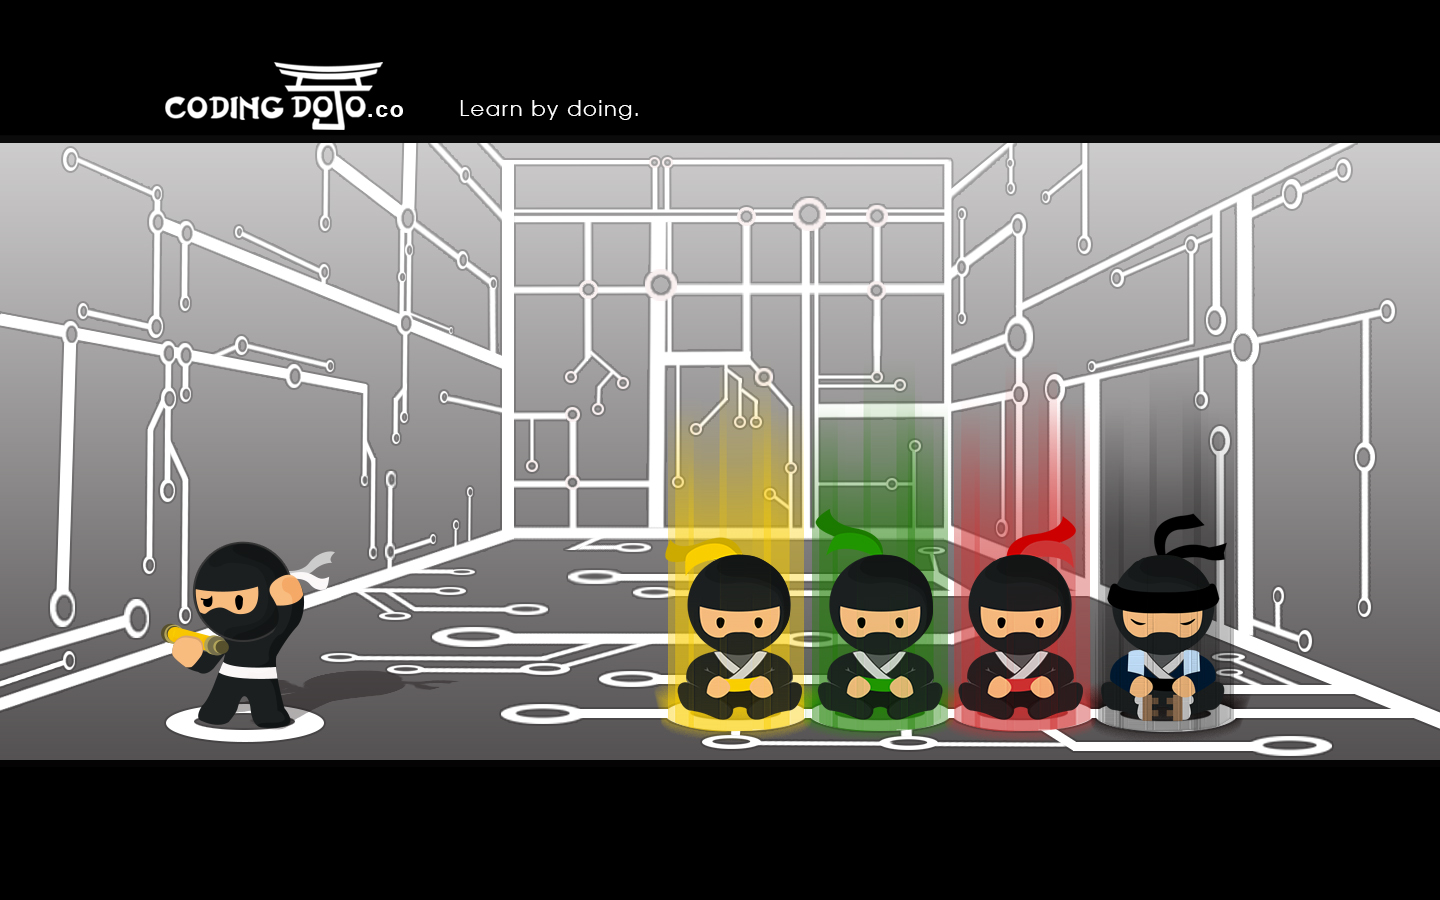
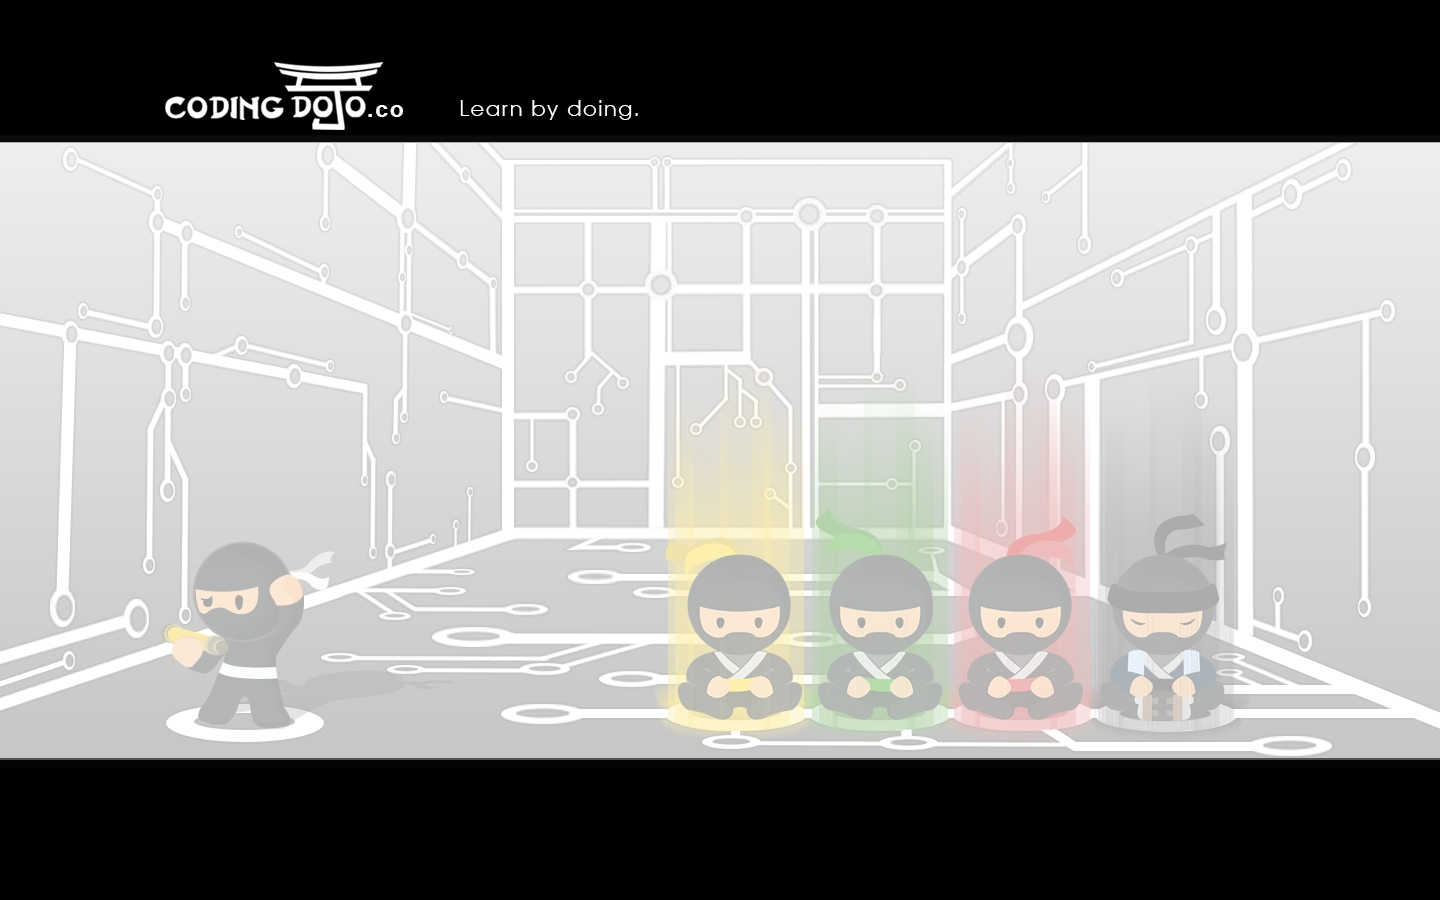
Lightened background image.

diff --git a/db/schema.rb b/db/schema.rb
@@ -1,3 +1,4 @@
+# encoding: UTF-8
 # This file is auto-generated from the current state of the database. Instead
 # of editing this file, please use the migrations feature of Active Record to
 # incrementally modify your database, and then regenerate this schema definition.
@@ -44,9 +45,9 @@ ActiveRecord::Schema.define(:version => 20130604171228) do
     t.string   "first_name"
     t.string   "last_name"
     t.string   "email_address"
-    t.string   "encrypt_password"
-    t.datetime "created_at"
-    t.datetime "updated_at"
+    t.string   "password"
+    t.datetime "created_at",    :null => false
+    t.datetime "updated_at",    :null => false
   end
 
 end
